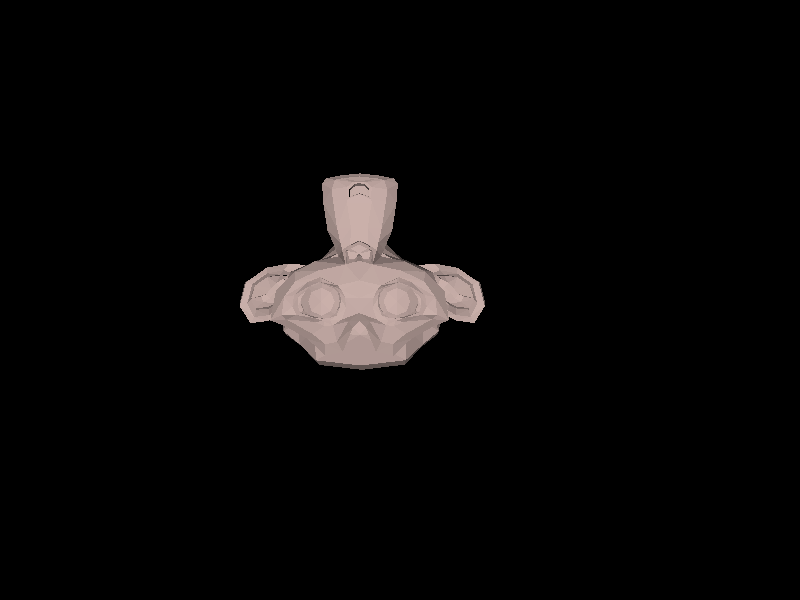
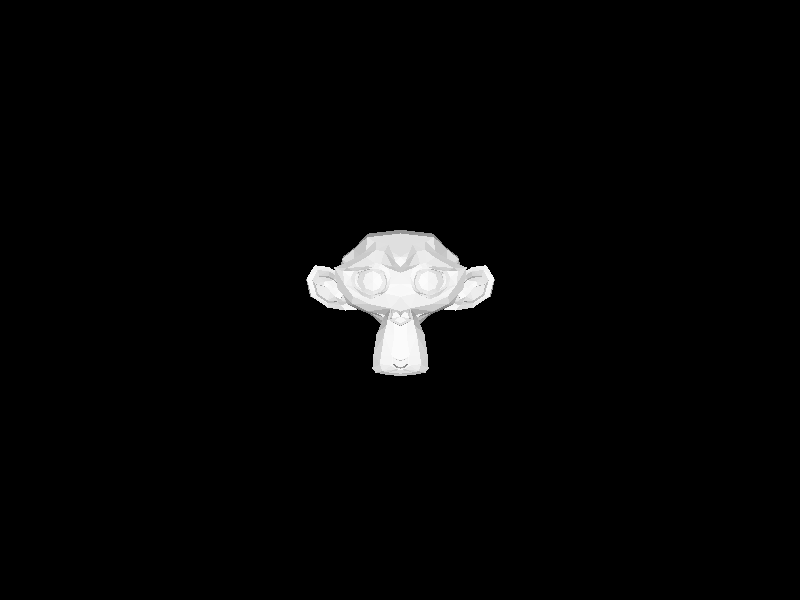
[feature]:解决遗留bug

Changed region(s): [[0.2812, 0.27, 0.625, 0.63]]

diff --git a/Star/Camera.cpp b/Star/Camera.cpp
@@ -11,8 +11,6 @@ void Camera::tick()
 		updateVectors();
 		mView = glm::lookAt(mPos, mPos + mFront, mUp);
 		mViewInv = glm::inverse(mView);
-		mRasterToWorld = mViewInv * mRasterToCamera;
-		mWorldToRaster = glm::inverse(mRasterToWorld);
 	}
 	if (Input::instance().getMouseScrollWheel() != 0)
 	{
@@ -20,8 +18,6 @@ void Camera::tick()
 		mPos += mFront * sw * 0.1f;
 		mView = glm::lookAt(mPos, mPos + mFront, mUp);
 		mViewInv = glm::inverse(mView);
-		mRasterToWorld = mViewInv * mRasterToCamera;
-		mWorldToRaster = glm::inverse(mRasterToWorld);
 	}
 }
 
@@ -42,43 +38,18 @@ void Camera::reSize(int w, int h)
 	mHeight = h;
 	mRatio = mWidth / float(mHeight);
 	mProj = glm::perspective(glm::radians(mFOV), mRatio, mNearClip, mFarClip);
-
-	glm::mat4 s1;
-	s1 = glm::scale(glm::mat4(1.0), glm::vec3(float(mWidth), float(mHeight), 1.0f));
-	glm::mat4 s2;
-	s2 = glm::scale(glm::mat4(1.0), glm::vec3(0.5f, -0.5f, 1.0f));
-	glm::mat4 t;
-	t = glm::translate(glm::mat4(1.0), glm::vec3(1.0f, -1.0f, 0.0f));
-	mScreenToRaster =  s1 * s2 * t;
-	
-	mRasterToCamera = glm::inverse(mProj) * glm::inverse(mScreenToRaster);
-	mCameraToRaster = glm::inverse(mRasterToCamera);
-	mRasterToWorld = mViewInv * mRasterToCamera;
-	mWorldToRaster = glm::inverse(mRasterToWorld);
-	mScreenToWorld = mViewInv * glm::inverse(mProj);
 }
 
 bool Camera::GenerateRay(float s, float t, Ray& r)
 {
 	glm::mat4 viewProjectionMatrix = mProj * mView;
-	glm::vec3 nearPoint = unProject(glm::vec4(0,0,mWidth,mHeight),glm::vec2(s,t),0.0,viewProjectionMatrix);
-	glm::vec3 farPoint = unProject(glm::vec4(0, 0, mWidth, mHeight), glm::vec2(s, t), 1.0, viewProjectionMatrix);;
+	glm::vec3 nearPoint = unProject(glm::vec4(0, 0, mWidth, mHeight),glm::vec2(s, t), 0.0, viewProjectionMatrix);
+	glm::vec3 farPoint = unProject(glm::vec4(0, 0, mWidth, mHeight), glm::vec2(s, t), 1.0, viewProjectionMatrix);
 	glm::vec3 dir = farPoint - nearPoint;
 	glm::normalize(dir);
-	r.mOrig = nearPoint;
+	r.mOrig = mPos;
 	r.mDir = dir;
 	r.mMin = GMath::Epsilon;
 	r.mMax = GMath::Infinity;
-	/*
-	glm::vec3 ScreenCoord;
-	ScreenCoord.x = (2 * s) / (float)mWidth - 1.0;
-	ScreenCoord.y = (2 * t) / (float)mHeight - 1.0;
-	ScreenCoord.z = -0.05f;
-	r.mOrig = mPos;
-	r.mOrig.b *= -1;
-	r.mDir = TransformVector(ScreenCoord, mScreenToWorld);
-	r.mMin = GMath::Epsilon;
-	r.mMax = GMath::Infinity;
-	*/
 	return true;
 }

diff --git a/Star/Camera.h b/Star/Camera.h
@@ -10,7 +10,7 @@ public:
 		mPos = pos;
 		mYaw = yaw;
 		mPitch = pitch;
-		mFront = glm::vec3(0,0,1);
+		mFront = glm::vec3(0, 0, -1);
 		mUp = glm::vec3(0.0f, 1.0f, 0.0f);
 		mNearClip = nearClip;
 		mFarClip = farClip;
@@ -33,10 +33,6 @@ public:
 	int getHeight(){ return mHeight; }
 	glm::mat4 getViewMatrix(){ return mView; }
 	glm::mat4 getProjMatrix() { return mProj; }
-	glm::vec3 WorldToRaster(const glm::vec3 pWorld) const { return TransformPoint(pWorld, mWorldToRaster); }
-	glm::vec3 RasterToWorld(const glm::vec3 pRas) const { return TransformPoint(pRas, mRasterToWorld); }
-	glm::vec3 RasterToCamera(const glm::vec3 pRas) const { return TransformPoint(pRas, mRasterToCamera); }
-	glm::vec3 CameraToRaster(const glm::vec3 pCam) const { return TransformPoint(pCam, mCameraToRaster); }
 	bool CheckRaster(const glm::vec3& pRas){ return pRas.x < float(mWidth) && pRas.x >= 0.0f && pRas.y < float(mHeight) && pRas.y >= 0.0f; }
 	
 private:
@@ -62,10 +58,4 @@ private:
 	glm::mat4 mView;
 	glm::mat4 mViewInv;
 	glm::mat4 mProj;
-	glm::mat4 mScreenToRaster;
-	glm::mat4 mRasterToCamera;
-	glm::mat4 mCameraToRaster;
-	glm::mat4 mRasterToWorld;
-	glm::mat4 mWorldToRaster;
-	glm::mat4 mScreenToWorld;
 };
